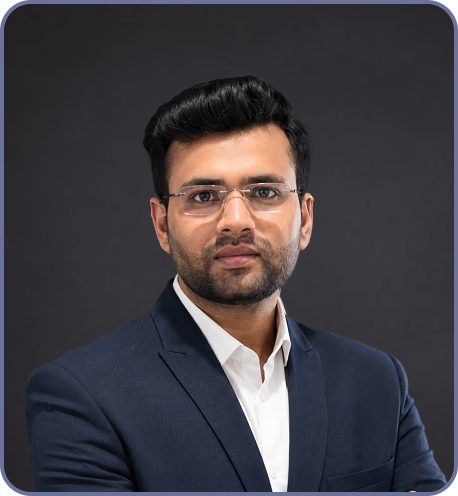
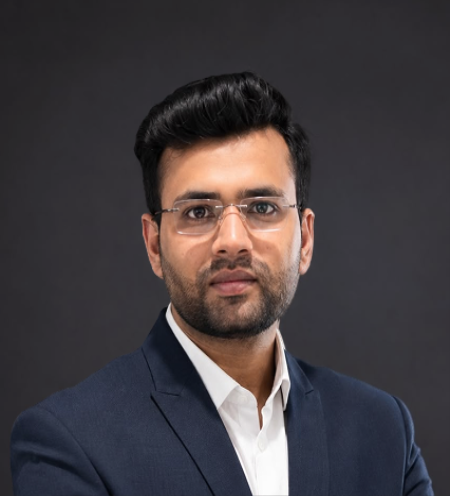
Update layout, components, and spacing between Hero and Services showcase

diff --git a/src/components/LeadershipTeam.jsx b/src/components/LeadershipTeam.jsx
@@ -56,7 +56,7 @@ export default function LeadershipTeam() {
               className="leader-card group relative rounded-[2.5rem] p-5 sm:p-6 text-center transition-all duration-300 bg-transparent border border-transparent shadow-none hover:bg-white hover:border-slate-100 hover:shadow-[0_20px_50px_rgba(0,0,0,0.12)] hover:scale-[1.02] cursor-pointer"
             >
               {/* Photo Container */}
-              <div className="relative rounded-[2rem] overflow-hidden aspect-[4/4.5] bg-[#282A2D] mb-5 shadow-sm transition-transform duration-300 group-hover:scale-[1.01]">
+              <div className="portrait-container relative rounded-[2rem] overflow-hidden aspect-[4/4.5] bg-[#282A2D] mb-5 shadow-sm transition-transform duration-300 group-hover:scale-[1.01]">
                 <img
                   src={leader.image}
                   alt={leader.name}

diff --git a/src/components/AudienceSegments.jsx b/src/components/AudienceSegments.jsx
@@ -35,8 +35,11 @@ export default function AudienceSegments({ onOpenContact }) {
   return (
     <section
       id="audience"
-      className="py-16 sm:py-20 lg:py-28 bg-[#FDFBF7] relative overflow-hidden w-full flex flex-col items-center"
+      className="pt-8 sm:pt-12 lg:pt-16 pb-16 sm:pb-20 lg:pb-28 bg-[#FDFBF7] relative overflow-hidden w-full flex flex-col items-center"
     >
+      {/* Ambient Soft Blend Overlay */}
+      <div className="absolute inset-0 z-0 pointer-events-none opacity-60 bg-gradient-to-b from-transparent via-amber-50/20 to-transparent" />
+
       <div className="w-full max-w-[1440px] mx-auto px-4 sm:px-6 lg:px-8 relative z-10 flex flex-col items-center">
         
         {/* Section Header */}

diff --git a/src/pages/Home.module.css b/src/pages/Home.module.css
@@ -24,3 +24,18 @@
 .backgroundMerge :global(#team) > div:last-child {
   z-index: 20;
 }
+
+/* Overlap and merge boundary between Quality Control ("Why We Deliver Better Results") and Audience Segments ("Where Do you fit into this picture?") */
+.backgroundMerge :global(#audience) {
+  margin-top: calc(-70 * var(--figma-unit, 1px));
+  position: relative;
+  z-index: 10;
+}
+
+@media (max-width: 1023px) {
+  .backgroundMerge :global(#audience) {
+    margin-top: -40px;
+  }
+}
+
+

diff --git a/src/components/QualityControl.jsx b/src/components/QualityControl.jsx
@@ -31,7 +31,7 @@ export default function QualityControl() {
   const rightSlide = slides[rightSlideIndex];
 
   return (
-    <section id="quality" className="py-16 sm:py-20 lg:py-28 bg-transparent relative overflow-hidden w-full">
+    <section id="quality" className="pt-16 sm:pt-20 lg:pt-24 pb-0 bg-[#FDFBF7] relative overflow-hidden w-full">
       <div className="w-full max-w-[1440px] mx-auto px-4 sm:px-6 lg:px-8 relative z-10">
 
         {/* Top Header */}

diff --git a/src/components/ServicesShowcase.jsx b/src/components/ServicesShowcase.jsx
@@ -272,7 +272,7 @@ export default function ServicesShowcase() {
     <section 
       id="services"
       ref={sectionRef} 
-      className="relative bg-[#FDFBF7] bg-repeat bg-center w-full py-4 my-0"
+      className="relative bg-[#FDFBF7] bg-repeat bg-center w-full pt-16 sm:pt-24 lg:pt-32 pb-8 sm:pb-12 lg:pb-16 my-0"
       style={{ 
         backgroundImage: "url('/image/Home/section2/background.png')",
         backgroundSize: '600px auto',

diff --git a/src/components/Hero.module.css b/src/components/Hero.module.css
@@ -2,7 +2,7 @@
    Artwork contains its own rotation and shadow; keep its aspect ratio intact. */
 :global(#hero).hero {
   width: 100%;
-  padding: 0 max(16px, 2.5vw) clamp(64px, 4.7vw, 90px);
+  padding: 0 max(16px, 2.5vw) clamp(72px, 5.5vw, 105px);
   background: transparent;
   overflow: visible;
 }
